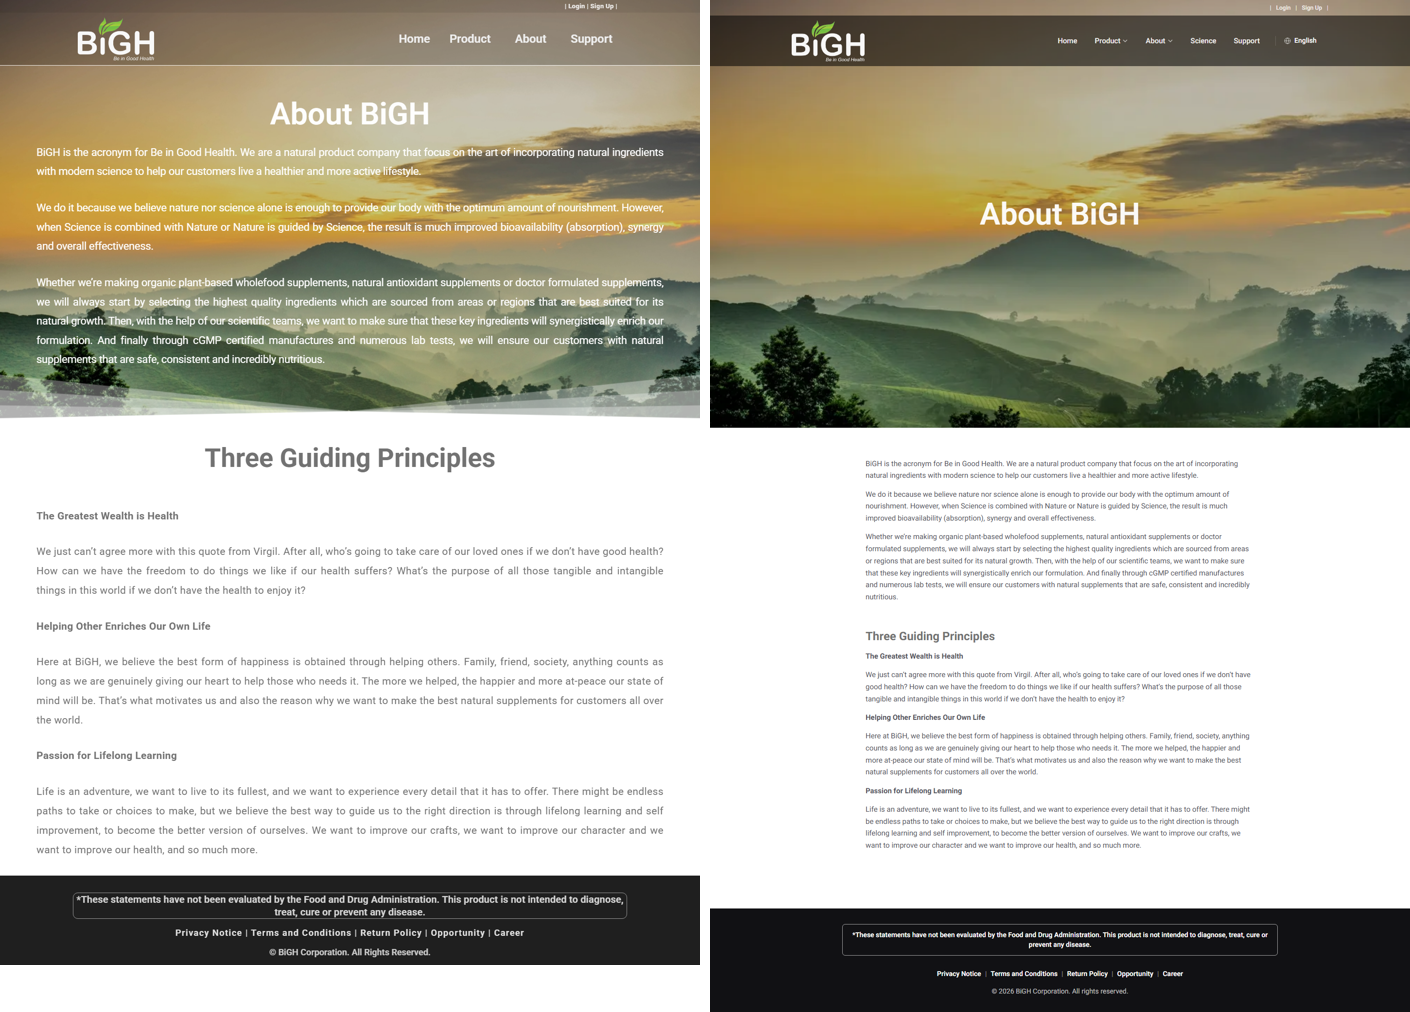
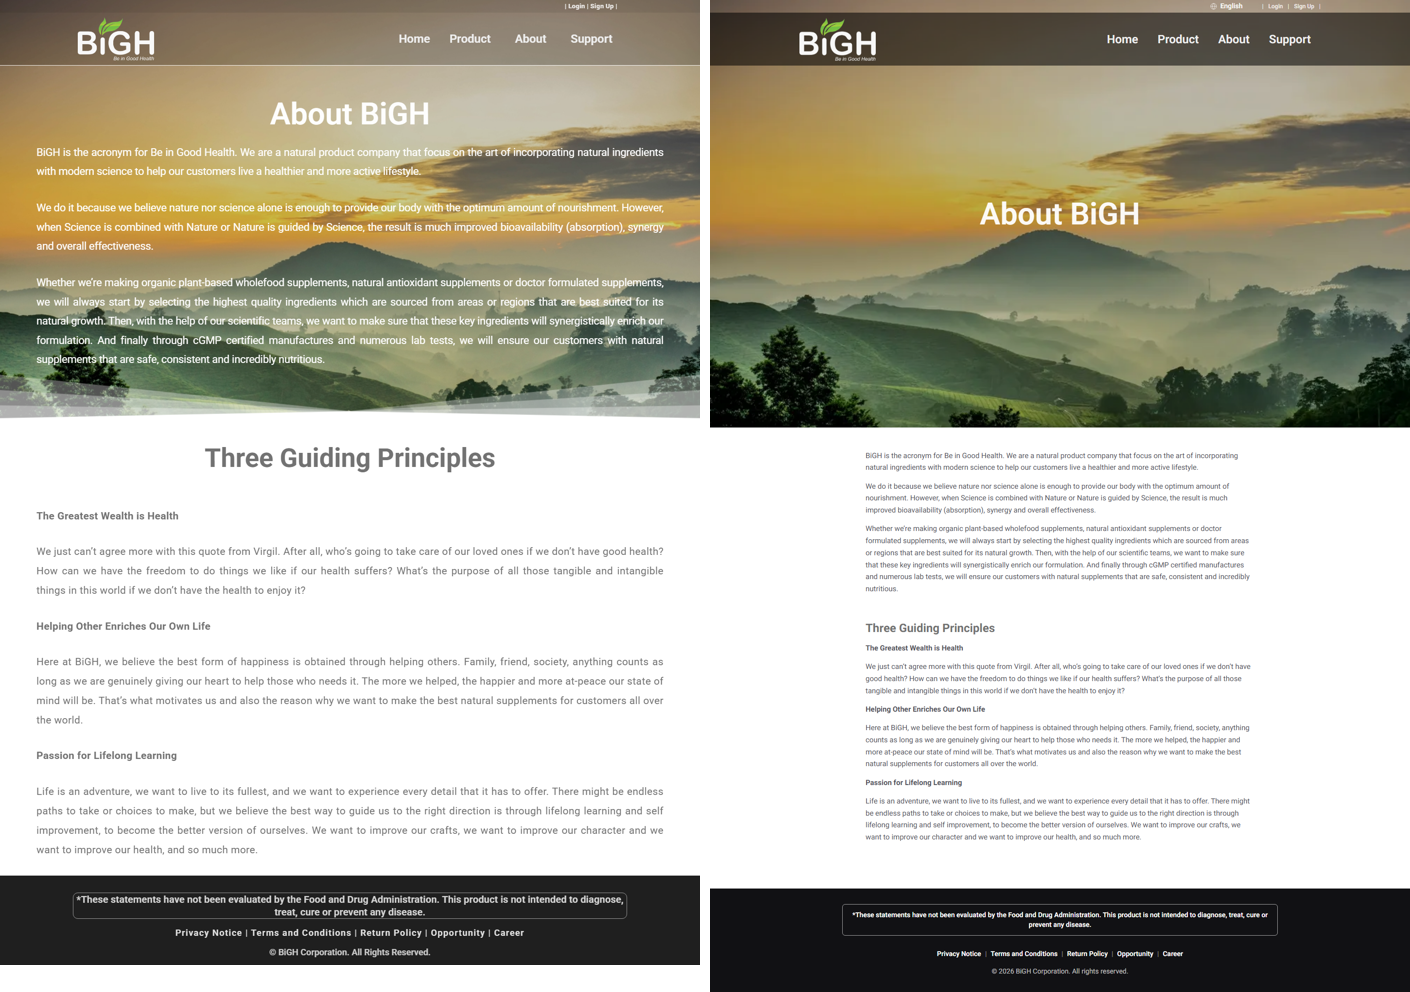
feat(clone): navbar to measured original spec + 97% parity on all 24 pages
Header: 26px microbar (login/signup + language moved here) + 109px main row,
24px Roboto-600 items with 13x20 padding, 4 top-level entries (Science under
About like the original), no carets, green active pill; mobile = 185px row
with 292px logo + burger, content offsets adjusted so nothing hides under it.
Page parity vs original after micro-tuning: all products within +/-2.8%,
all secondary pages within +/-2.8% (support 98.9%, login 99.8%, signup 99.9%,
gluten-free 99.9%).

Claude-Session: https://claude.ai/code/session_01RzRMziC5GY7AzV6VWdUSyy

diff --git a/src/components/clone/header.tsx b/src/components/clone/header.tsx
@@ -12,6 +12,10 @@ import { LangSwitcher } from "./lang-switcher";
 
 const LOGIN_URL = "https://aeg.imatrixoffice.com";
 
+// Measured from the original (1440px): header floats transparently over the
+// page — 26px microbar + 109px main row; logo 157x88 at the content edge;
+// nav items Roboto 600 24px with 13x20 padding; FOUR top-level items
+// (Science lives in the About dropdown). Mobile: 185px row w/ 292px logo.
 function Dropdown({
   label,
   items,
@@ -40,23 +44,20 @@ function Dropdown({
     >
       <button
         type="button"
-        className="flex items-center gap-1 rounded-full px-4 py-1.5 text-[15px] font-medium text-white/90 transition-colors hover:bg-green hover:text-white"
+        className="flex items-center gap-1 rounded-[5px] px-5 py-[13px] text-2xl font-semibold leading-none text-[#efefef] transition-colors hover:bg-green hover:text-white"
         aria-expanded={open}
         onClick={() => setOpen((v) => !v)}
       >
         {label}
-        <svg aria-hidden viewBox="0 0 12 12" className="h-3 w-3 opacity-70">
-          <path d="M2 4l4 4 4-4" fill="none" stroke="currentColor" strokeWidth="1.5" />
-        </svg>
       </button>
       {open && (
-        <div className="absolute left-1/2 top-full z-50 w-64 -translate-x-1/2 pt-2">
-          <ul className="rounded-lg border border-white/10 bg-ink-dark/95 p-2 shadow-[0_16px_40px_rgba(0,0,0,0.4)] backdrop-blur">
+        <div className="absolute left-1/2 top-full z-50 w-72 -translate-x-1/2 pt-1">
+          <ul className="rounded-md border border-white/10 bg-[#1d1d25]/95 p-2 shadow-[0_16px_40px_rgba(0,0,0,0.4)] backdrop-blur">
             {items.map((item) => (
               <li key={item.href}>
                 <Link
                   href={item.href}
-                  className="block rounded-md px-3 py-2 text-[15px] text-white/85 hover:bg-green hover:text-white"
+                  className="block rounded px-3 py-2 text-lg text-white/85 hover:bg-green hover:text-white"
                   onClick={() => setOpen(false)}
                 >
                   {item.label}
@@ -87,84 +88,86 @@ export function SiteHeader() {
     "gluten-free": t("glutenFree"),
     vegan: t("vegan"),
   };
-  const aboutItems = ABOUT_SLUGS.map((slug) => ({ href: `/${slug}`, label: aboutLabels[slug] }));
+  const aboutItems = [
+    ...ABOUT_SLUGS.map((slug) => ({ href: `/${slug}`, label: aboutLabels[slug] })),
+    { href: "/science", label: t("science") },
+  ];
 
   return (
-    // the original header floats transparently over the page (135px total):
-    // clear microbar + a 54%-black main row
     <header className="absolute left-0 top-0 z-40 w-full">
-      <div>
-        <div className="mx-auto flex h-8 max-w-6xl items-center justify-end gap-1 px-4 text-xs text-white/80 sm:px-6">
-          <span aria-hidden>|</span>
-          <a href={LOGIN_URL} className="px-1.5 font-semibold hover:text-green">
-            {t("login")}
-          </a>
-          <span aria-hidden>|</span>
-          <Link href="/signup" className="px-1.5 font-semibold hover:text-green">
-            {t("signup")}
+      {/* 26px microbar: Login | Sign Up (+ language) */}
+      <div className="mx-auto flex h-[26px] max-w-[70rem] items-center justify-end gap-1 px-4 text-xs text-white/80 sm:px-6">
+        <div className="mr-3">
+          <LangSwitcher dark />
+        </div>
+        <span aria-hidden>|</span>
+        <a href={LOGIN_URL} className="px-1.5 font-semibold hover:text-green">
+          {t("login")}
+        </a>
+        <span aria-hidden>|</span>
+        <Link href="/signup" className="px-1.5 font-semibold hover:text-green">
+          {t("signup")}
+        </Link>
+        <span aria-hidden>|</span>
+      </div>
+
+      {/* main row: 109px desktop / 185px mobile, translucent black */}
+      <div className="bg-black/55">
+        <div className="mx-auto flex max-w-[70rem] items-center justify-between gap-4 px-2.5 py-[10px] sm:px-6 lg:h-[109px] lg:py-0">
+          <Link href="/" className="flex shrink-0 items-center" aria-label="BiGH — Home">
+            <Image
+              src="/original/uploads/2019/04/logo_white_97.png"
+              alt="BiGH — Be in Good Health"
+              width={292}
+              height={164}
+              priority
+              className="h-auto w-[292px] max-w-[75vw] lg:h-[88px] lg:w-[157px]"
+            />
           </Link>
-          <span aria-hidden>|</span>
+
+          <nav className="hidden items-center lg:flex" aria-label="Main">
+            <Link
+              href="/"
+              className={`rounded-[5px] px-5 py-[13px] text-2xl font-semibold leading-none transition-colors ${
+                pathname === "/" ? "bg-green text-white" : "text-[#efefef] hover:bg-green hover:text-white"
+              }`}
+            >
+              {t("home")}
+            </Link>
+            <Dropdown label={t("products")} items={productItems} />
+            <Dropdown label={t("about")} items={aboutItems} />
+            <Link
+              href="/support"
+              className="rounded-[5px] px-5 py-[13px] text-2xl font-semibold leading-none text-[#efefef] transition-colors hover:bg-green hover:text-white"
+            >
+              {t("support")}
+            </Link>
+          </nav>
+
+          <button
+            type="button"
+            className="p-2 text-white lg:hidden"
+            aria-expanded={mobileOpen}
+            aria-label={t("menu")}
+            onClick={() => setMobileOpen((v) => !v)}
+          >
+            <svg aria-hidden viewBox="0 0 24 24" className="h-8 w-8" fill="none" stroke="currentColor" strokeWidth="2">
+              {mobileOpen ? <path d="M5 5l14 14M19 5L5 19" /> : <path d="M4 7h16M4 12h16M4 17h16" />}
+            </svg>
+          </button>
         </div>
       </div>
 
-      <div className="bg-black/55">
-      <div className="mx-auto flex h-[6.5rem] max-w-6xl items-center justify-between gap-4 px-4 sm:px-6">
-        <Link href="/" className="flex shrink-0 items-center" aria-label="BiGH — Home">
-          <Image
-            src="/original/uploads/2019/04/logo_white_97.png"
-            alt="BiGH — Be in Good Health"
-            width={157}
-            height={88}
-            priority
-            className="h-[5.25rem] w-auto"
-          />
-        </Link>
-
-        <nav className="hidden items-center gap-1 lg:flex" aria-label="Main">
-          <Link
-            href="/"
-            className={`rounded-full px-4 py-1.5 text-[15px] font-medium transition-colors ${
-              pathname === "/" ? "bg-green text-white" : "text-white/90 hover:bg-green hover:text-white"
-            }`}
-          >
-            {t("home")}
-          </Link>
-          <Dropdown label={t("products")} items={productItems} />
-          <Dropdown label={t("about")} items={aboutItems} />
-          <Link
-            href="/science"
-            className="rounded-full px-4 py-1.5 text-[15px] font-medium text-white/90 transition-colors hover:bg-green hover:text-white"
-          >
-            {t("science")}
-          </Link>
-          <Link
-            href="/support"
-            className="rounded-full px-4 py-1.5 text-[15px] font-medium text-white/90 transition-colors hover:bg-green hover:text-white"
-          >
-            {t("support")}
-          </Link>
-          <div className="ml-3 border-l border-white/15 pl-4">
-            <LangSwitcher dark />
-          </div>
-        </nav>
-
-        <button
-          type="button"
-          className="rounded-lg border border-white/20 p-2 text-white lg:hidden"
-          aria-expanded={mobileOpen}
-          aria-label={t("menu")}
-          onClick={() => setMobileOpen((v) => !v)}
-        >
-          <svg aria-hidden viewBox="0 0 24 24" className="h-5 w-5" fill="none" stroke="currentColor" strokeWidth="1.8">
-            {mobileOpen ? <path d="M5 5l14 14M19 5L5 19" /> : <path d="M4 7h16M4 12h16M4 17h16" />}
-          </svg>
-        </button>
-      </div>
-      </div>
-
       {mobileOpen && (
-        <div className="border-t border-white/10 bg-ink-dark/95 px-4 pb-6 pt-3 backdrop-blur lg:hidden">
-          <p className="pb-1 pt-2 text-xs font-semibold uppercase tracking-widest text-white/50">
+        <div className="bg-[#1d1d25]/95 px-4 pb-6 pt-3 backdrop-blur lg:hidden">
+          <ul>
+            <li>
+              <Link href="/" className="block py-2 text-lg font-semibold text-white" onClick={() => setMobileOpen(false)}>
+                {t("home")}
+              </Link>
+            </li>
+          </ul>
+          <p className="pb-1 pt-3 text-xs font-semibold uppercase tracking-widest text-white/50">
             {t("products")}
           </p>
           <ul className="grid grid-cols-2 gap-x-4">
@@ -184,19 +187,17 @@ export function SiteHeader() {
             {t("about")}
           </p>
           <ul className="grid grid-cols-2 gap-x-4">
-            {[...aboutItems, { href: "/science", label: t("science") }, { href: "/support", label: t("support") }].map(
-              (item) => (
-                <li key={item.href}>
-                  <Link
-                    href={item.href}
-                    className="block py-1.5 text-[15px] text-white/85"
-                    onClick={() => setMobileOpen(false)}
-                  >
-                    {item.label}
-                  </Link>
-                </li>
-              ),
-            )}
+            {[...aboutItems, { href: "/support", label: t("support") }].map((item) => (
+              <li key={item.href}>
+                <Link
+                  href={item.href}
+                  className="block py-1.5 text-[15px] text-white/85"
+                  onClick={() => setMobileOpen(false)}
+                >
+                  {item.label}
+                </Link>
+              </li>
+            ))}
           </ul>
           <div className="mt-5 flex items-center justify-between border-t border-white/10 pt-4">
             <LangSwitcher dark />
@@ -206,7 +207,7 @@ export function SiteHeader() {
               </a>
               <Link
                 href="/signup"
-                className="rounded-full bg-green px-4 py-1.5 text-[15px] font-medium text-white"
+                className="rounded bg-green px-4 py-1.5 text-[15px] font-medium text-white"
                 onClick={() => setMobileOpen(false)}
               >
                 {t("signup")}

diff --git a/src/app/[locale]/[slug]/page.tsx b/src/app/[locale]/[slug]/page.tsx
@@ -176,7 +176,7 @@ function ProductPage({
           </div>
         ))}
         <div
-          className="relative mx-auto grid max-w-[70rem] gap-8 px-4 pb-24 pt-[10.3rem] sm:px-6 md:grid-cols-[550px_1fr] md:pb-[var(--hero-pb)]"
+          className="relative mx-auto grid max-w-[70rem] gap-8 px-4 pb-24 pt-[15.5rem] sm:px-6 md:grid-cols-[550px_1fr] md:pb-[var(--hero-pb)] md:pt-[10.3rem]"
           // measured: hero content ends 887px down; each product's hero section
           // height (incl. its wave divider) comes from the original page
           style={{ "--hero-pb": `${layout.heroH - 887}px` } as React.CSSProperties}
@@ -264,7 +264,7 @@ function ProductPage({
               </p>
             ))}
             <ul
-              className={`mx-auto mt-24 grid gap-x-7 gap-y-16 sm:grid-cols-2 ${
+              className={`mx-auto mt-[83px] grid gap-x-7 gap-y-16 sm:grid-cols-2 ${
                 sec.cards.length >= 6
                   ? "lg:grid-cols-6"
                   : sec.cards.length === 5
@@ -429,7 +429,7 @@ export default async function ClonePage({
       <article>
         <section
           className="relative overflow-hidden"
-          style={{ minHeight: "min(76vw, 1100px)" }}
+          style={{ minHeight: "min(70vw, 1000px)" }}
         >
           <Image src={banner.img} alt="" fill priority className="object-cover" sizes="100vw" />
           <div className="relative mx-auto max-w-6xl px-4 pb-20 pt-44 sm:px-6">
@@ -478,14 +478,14 @@ export default async function ClonePage({
           className={`relative overflow-hidden ${onBanner ? "" : "flex items-center justify-center"}`}
           style={
             onBanner
-              ? { minHeight: `min(${Math.round((banner.h / 1440) * 100)}vw, ${banner.h}px)` }
-              : { height: `min(${Math.round((banner.h / 1440) * 100) + 2}vw, ${banner.h}px)` }
+              ? { minHeight: `max(min(${Math.round((banner.h / 1440) * 100)}vw, ${banner.h}px), 24rem)` }
+              : { height: `max(min(${Math.round((banner.h / 1440) * 100) + 2}vw, ${banner.h}px), 24rem)` }
           }
         >
           <Image src={banner.img} alt="" fill priority className="object-cover" sizes="100vw" />
           <div aria-hidden className="absolute inset-0 bg-black/25" />
           {onBanner ? (
-            <div className="relative mx-auto max-w-5xl px-4 pb-10 pt-32 sm:px-6">
+            <div className="relative mx-auto max-w-5xl px-4 pb-10 pt-60 sm:px-6 md:pt-32">
               <h1 className="text-center text-[clamp(2.4rem,4.4vw,3.95rem)] font-semibold text-white/95">
                 {title}
               </h1>
@@ -495,15 +495,19 @@ export default async function ClonePage({
               />
             </div>
           ) : (
-            <h1 className="relative px-4 text-center text-[clamp(2.4rem,4.4vw,3.95rem)] font-semibold text-white/95">
+            <h1 className="relative px-4 pt-40 text-center text-[clamp(2.4rem,4.4vw,3.95rem)] font-semibold text-white/95 md:pt-0">
               {title}
             </h1>
           )}
         </section>
         {belowHtml.trim() && (
-          <div className="mx-auto max-w-4xl px-4 py-12 sm:px-6">
+          <div
+            className={`mx-auto max-w-4xl px-4 sm:px-6 ${
+              slug === "about" ? "pb-6 pt-8" : slug === "gluten-free" ? "pb-32 pt-12" : "py-12"
+            }`}
+          >
             <div
-              className={`prose-clone mx-auto ${slug === "terms-and-conditions" ? "prose-legal" : ""}`}
+              className="prose-clone mx-auto"
               // our own harvested, spam-stripped content — no third-party input
               dangerouslySetInnerHTML={{ __html: belowHtml }}
             />
@@ -534,12 +538,14 @@ export default async function ClonePage({
   }
 
   return (
-    <article className="mx-auto max-w-4xl px-4 pb-12 pt-44 sm:px-6">
+    <article className="mx-auto max-w-4xl px-4 pb-12 pt-64 sm:px-6 md:pt-44">
       <h1 className="max-w-2xl text-4xl font-semibold leading-tight text-black/75 md:text-[3.44rem]">
         {title}
       </h1>
       <div
-        className={`prose-clone mt-8 ${slug === "terms-and-conditions" ? "prose-legal" : ""}`}
+        className={`prose-clone mt-8 ${
+          slug === "terms-and-conditions" || slug === "return-policy" ? "prose-legal" : ""
+        }`}
         // our own harvested, spam-stripped content — no third-party input
         dangerouslySetInnerHTML={{ __html: html }}
       />

diff --git a/src/components/clone/support-form.tsx b/src/components/clone/support-form.tsx
@@ -26,7 +26,7 @@ interface Labels {
 
 const inputCls =
   "w-full rounded border border-line bg-white px-3 py-2 text-[15px] text-heading outline-none focus:border-green";
-const labelCls = "mb-1 mt-4 block text-[15px] font-medium text-heading";
+const labelCls = "mb-1 mt-3.5 block text-[15px] font-medium text-heading";
 
 export function SupportForm({ labels }: { labels: Labels }) {
   const [status, setStatus] = useState<"idle" | "sending" | "sent" | "failed">("idle");
@@ -55,8 +55,8 @@ export function SupportForm({ labels }: { labels: Labels }) {
   }
 
   return (
-    <section className="mx-auto max-w-6xl px-4 pb-16 sm:px-6">
-      <h2 className="mt-12 text-center text-[clamp(2rem,3.8vw,3.4rem)] font-semibold text-black/60">
+    <section className="mx-auto max-w-6xl px-4 pb-12 sm:px-6">
+      <h2 className="mt-6 text-center text-[clamp(2rem,3.8vw,3.4rem)] font-semibold text-black/60">
         {labels.title}
       </h2>
       <form onSubmit={onSubmit} className="mx-auto mt-6 max-w-6xl">
@@ -107,7 +107,7 @@ export function SupportForm({ labels }: { labels: Labels }) {
         <button
           type="submit"
           disabled={status === "sending"}
-          className="mt-7 w-full rounded bg-green py-4 text-lg font-medium text-white transition-colors hover:bg-green-dark disabled:opacity-60"
+          className="mt-6 w-full rounded bg-green py-3 text-lg font-medium text-white transition-colors hover:bg-green-dark disabled:opacity-60"
         >
           {labels.send}
         </button>

diff --git a/src/components/clone/product-gallery.tsx b/src/components/clone/product-gallery.tsx
@@ -31,7 +31,7 @@ export function ProductGallery({ images, alt, dark = false }: GalleryProps) {
         />
       </div>
       {images.length > 1 && (
-        <ul className="mt-3 flex justify-center gap-6 md:justify-start md:pl-8">
+        <ul className="mt-2 flex justify-center gap-6 md:justify-start md:pl-8">
           {images.map((img, i) => (
             <li key={img.src}>
               <button
@@ -39,7 +39,7 @@ export function ProductGallery({ images, alt, dark = false }: GalleryProps) {
                 onClick={() => setActive(i)}
                 aria-label={`${alt} ${i + 1}`}
                 aria-current={i === active}
-                className={`block w-[8.25rem] max-w-[22vw] rounded-md border p-1.5 transition-colors ${
+                className={`block w-[8.25rem] max-w-[22vw] rounded-md border p-1 transition-colors ${
                   dark
                     ? i === active
                       ? "border-black/60 bg-black/5"

diff --git a/src/components/clone/hero.tsx b/src/components/clone/hero.tsx
@@ -59,7 +59,7 @@ export function Hero({ eyebrow, brand, tagline, learnMore }: HeroProps) {
       {/* text column — vertically centered on the navy side */}
       <div
         data-hero="text"
-        className="relative px-6 pb-8 pt-16 text-center opacity-0 md:absolute md:left-[3%] md:top-[42%] md:w-[37%] md:-translate-y-1/2 md:px-0 md:pb-0 md:pt-0"
+        className="relative px-6 pb-8 pt-60 text-center opacity-0 md:absolute md:left-[3%] md:top-[42%] md:w-[37%] md:-translate-y-1/2 md:px-0 md:pb-0 md:pt-0"
       >
         <p className="text-[clamp(1.6rem,3.4vw,3.06rem)] font-semibold leading-tight text-white/85">
           {eyebrow}

diff --git a/src/data/page-banners.ts b/src/data/page-banners.ts
@@ -9,5 +9,5 @@ export const PAGE_BANNERS: Record<string, { img: string; h: number }> = {
   "gluten-free": { img: "/original/uploads/2019/03/organic-1.jpg", h: 1272 },
   vegan: { img: "/original/uploads/2019/03/vegan-3.jpg", h: 730 },
   signup: { img: "/original/uploads/2019/04/signup_bg4.jpg", h: 900 },
-  login: { img: "/original/uploads/2019/04/login_bg5.jpg", h: 1000 },
+  login: { img: "/original/uploads/2019/04/login_bg5.jpg", h: 900 },
 };

diff --git a/src/app/globals.css b/src/app/globals.css
@@ -115,8 +115,8 @@ html[lang="vn"] {
 
   /* terms page uses the original's larger legal type */
   .prose-legal {
-    font-size: 17px;
-    line-height: 1.8;
+    font-size: 16px;
+    line-height: 1.77;
   }
   .prose-legal p,
   .prose-legal li {
